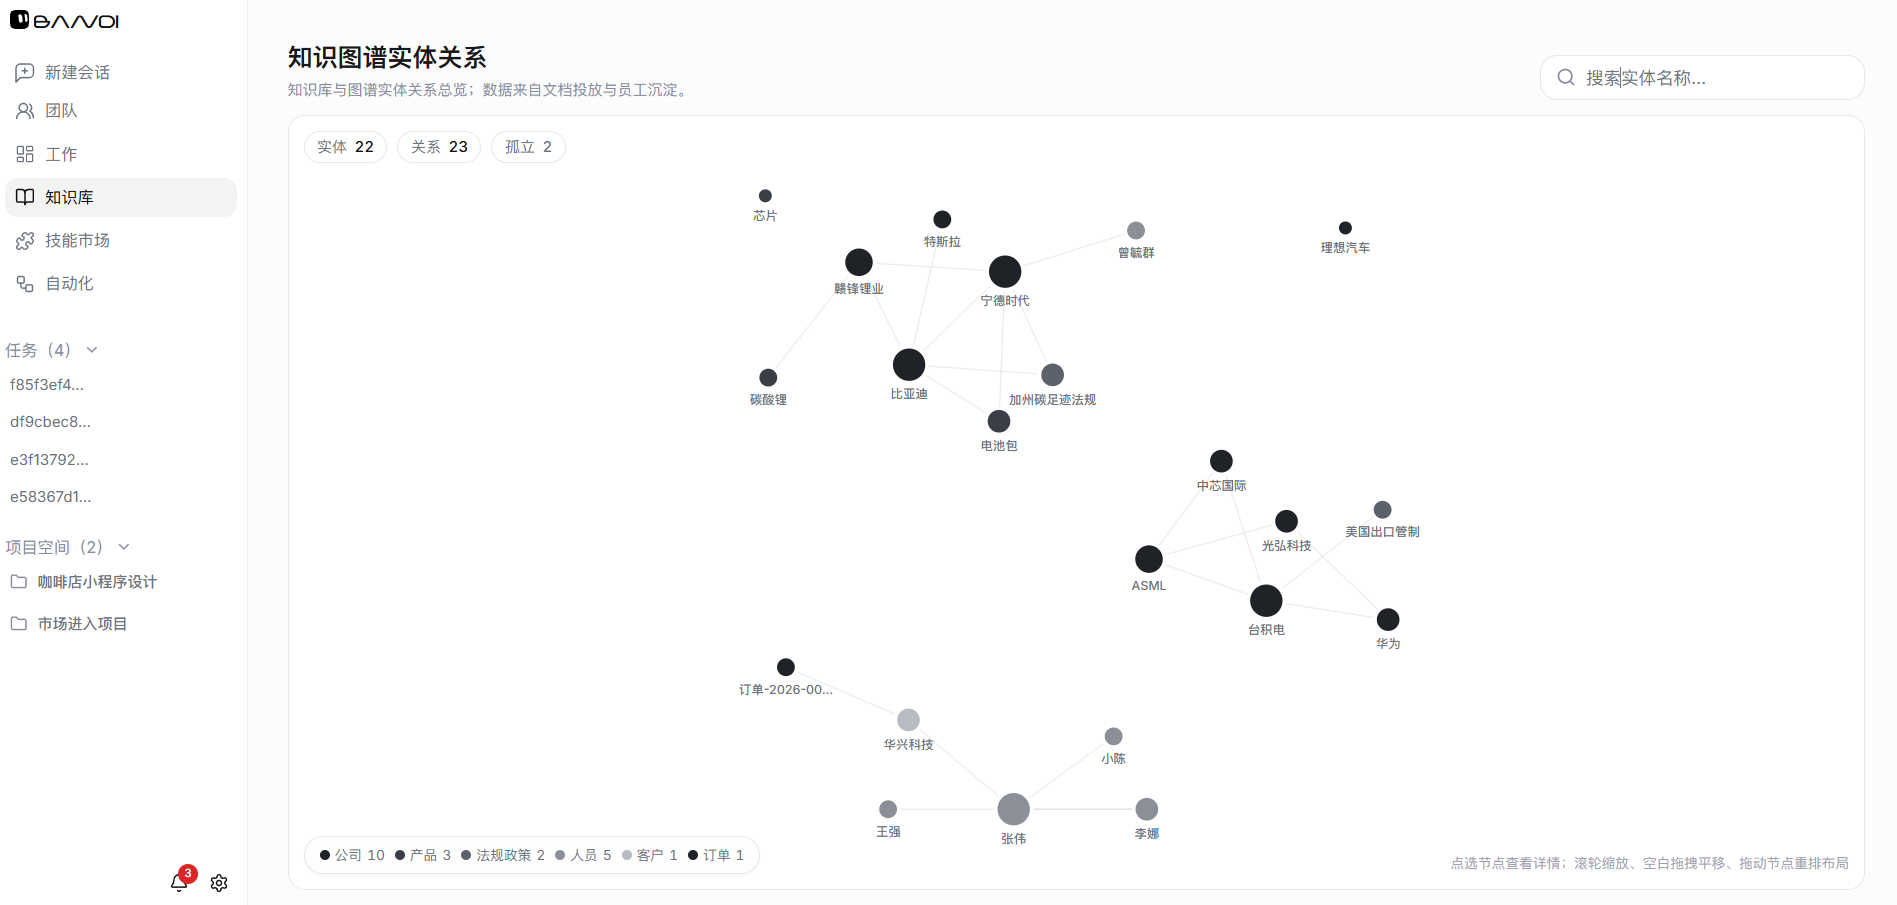
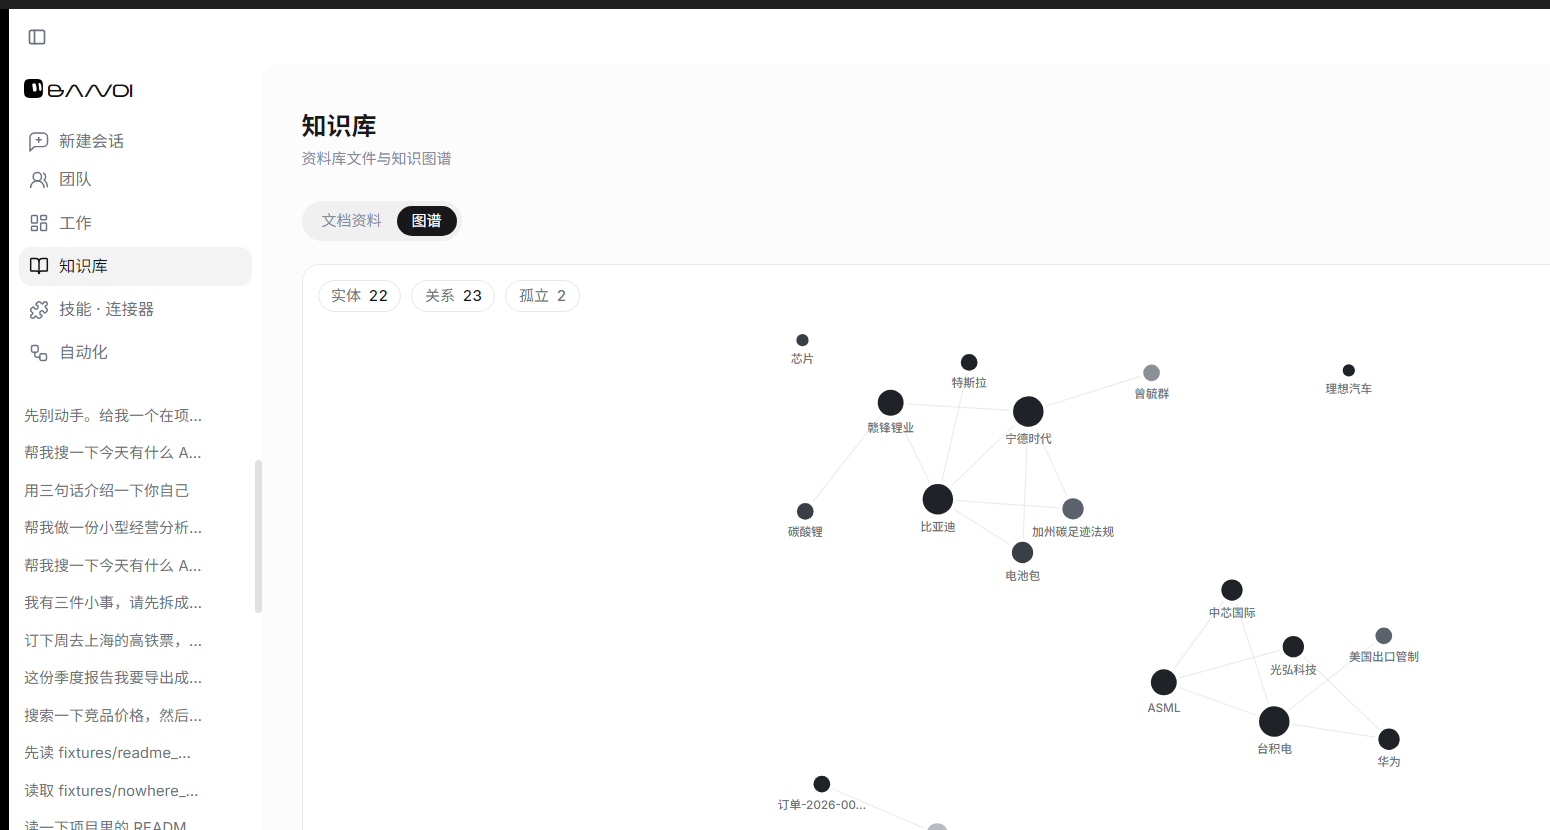
docs(readme): refresh product screenshots; ship the missing clipboard helper
The README screenshots were two months old: memory approval and the
knowledge graph had changed enough that the old images misrepresented them.
Re-captured all seven plus team chat, knowledge, skills and automation at
1550x830 from the running 1.2.46 build.

Also add frontend/src/lib/clipboard.ts: DiagramCard imports copyText from
it, but the file was never committed, so a fresh checkout could not build.

diff --git a/frontend/src/lib/clipboard.ts b/frontend/src/lib/clipboard.ts
@@ -1,0 +1,42 @@
+/**
+ * 功能：文本复制的统一入口——先走标准 API，失败退回选区复制。
+ *
+ * 为什么要降级：`navigator.clipboard.writeText` 只在安全上下文（https / localhost）
+ * 且窗口有焦点时可用。Electron 打包后页面来自自定义协议、被托盘隐藏的窗口也没有
+ * 焦点，此时它会直接 reject，界面表现为「点了复制没反应」。
+ */
+
+/** 功能：复制文本到剪贴板，返回是否成功。 */
+export async function copyText(text: string): Promise<boolean> {
+  // 不预判 isSecureContext：它在部分运行时为 undefined，预判会把可用的 API 误判成不可用。
+  // 直接调，失败（reject）再降级——列举法进行试错而不是预设条件。
+  try {
+    if (navigator.clipboard?.writeText) {
+      await navigator.clipboard.writeText(text);
+      return true;
+    }
+  } catch {
+    // 继续走降级路径
+  }
+  return copyBySelection(text);
+}
+
+/** 功能：用临时只读文本域 + execCommand 复制（非安全上下文下的唯一可用路径）。 */
+function copyBySelection(text: string): boolean {
+  try {
+    const area = document.createElement("textarea");
+    area.value = text;
+    area.setAttribute("readonly", "");
+    area.style.position = "fixed";
+    area.style.top = "-1000px";
+    area.style.opacity = "0";
+    document.body.appendChild(area);
+    area.select();
+    area.setSelectionRange(0, area.value.length);
+    const ok = document.execCommand("copy");
+    document.body.removeChild(area);
+    return ok;
+  } catch {
+    return false;
+  }
+}
